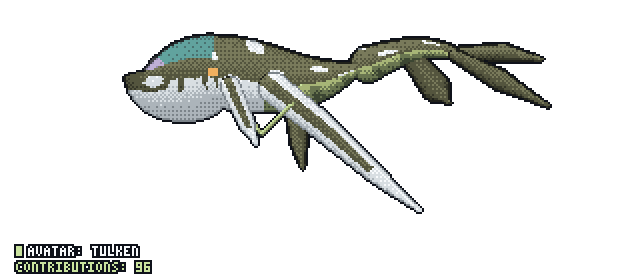
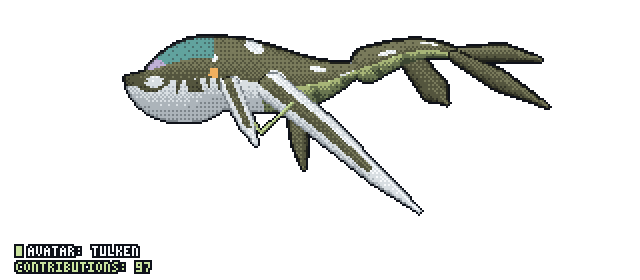
chore: update Tulkun from latest GitHub activity

diff --git a/tulkun/preview.html b/tulkun/preview.html
@@ -16,7 +16,7 @@
 </style>
 </head>
 <body>
-<header class="dark"><h1>@Melan-Parajuli7 — Adult Female (Sloped Sensor Crest) (96 commits)</h1></header>
+<header class="dark"><h1>@Melan-Parajuli7 — Adult Female (Sloped Sensor Crest) (97 commits)</h1></header>
 <section class="dark">
 <h2>GitHub Dark Mode</h2>
 <div class="images">
